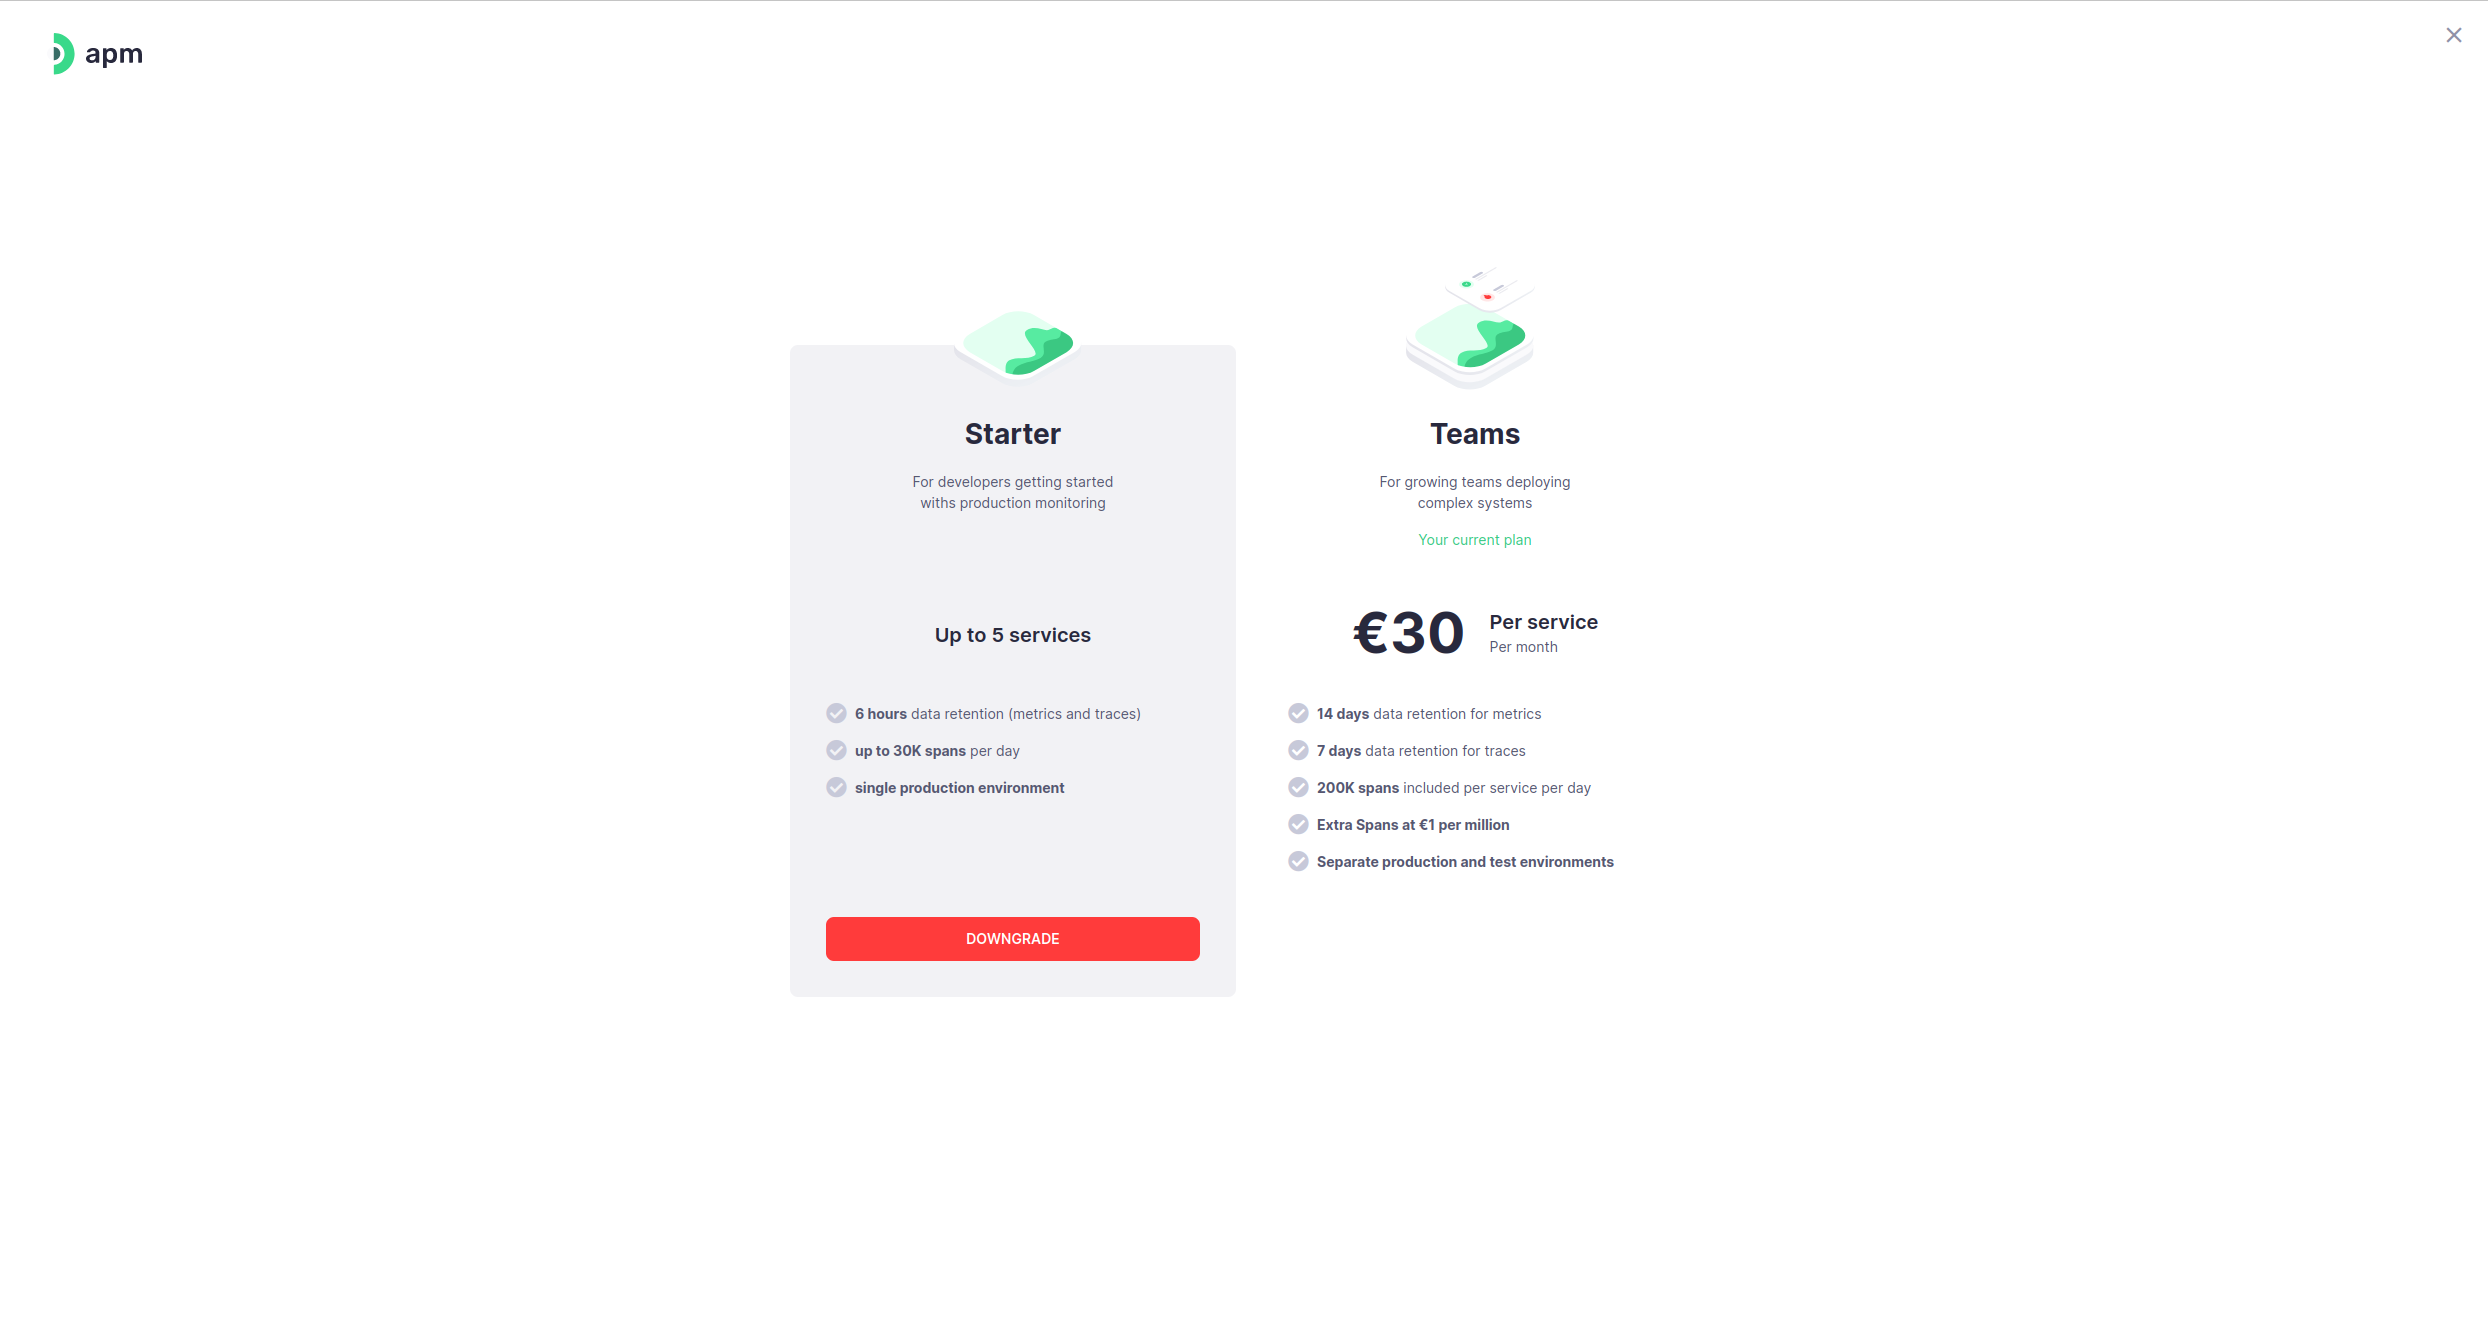
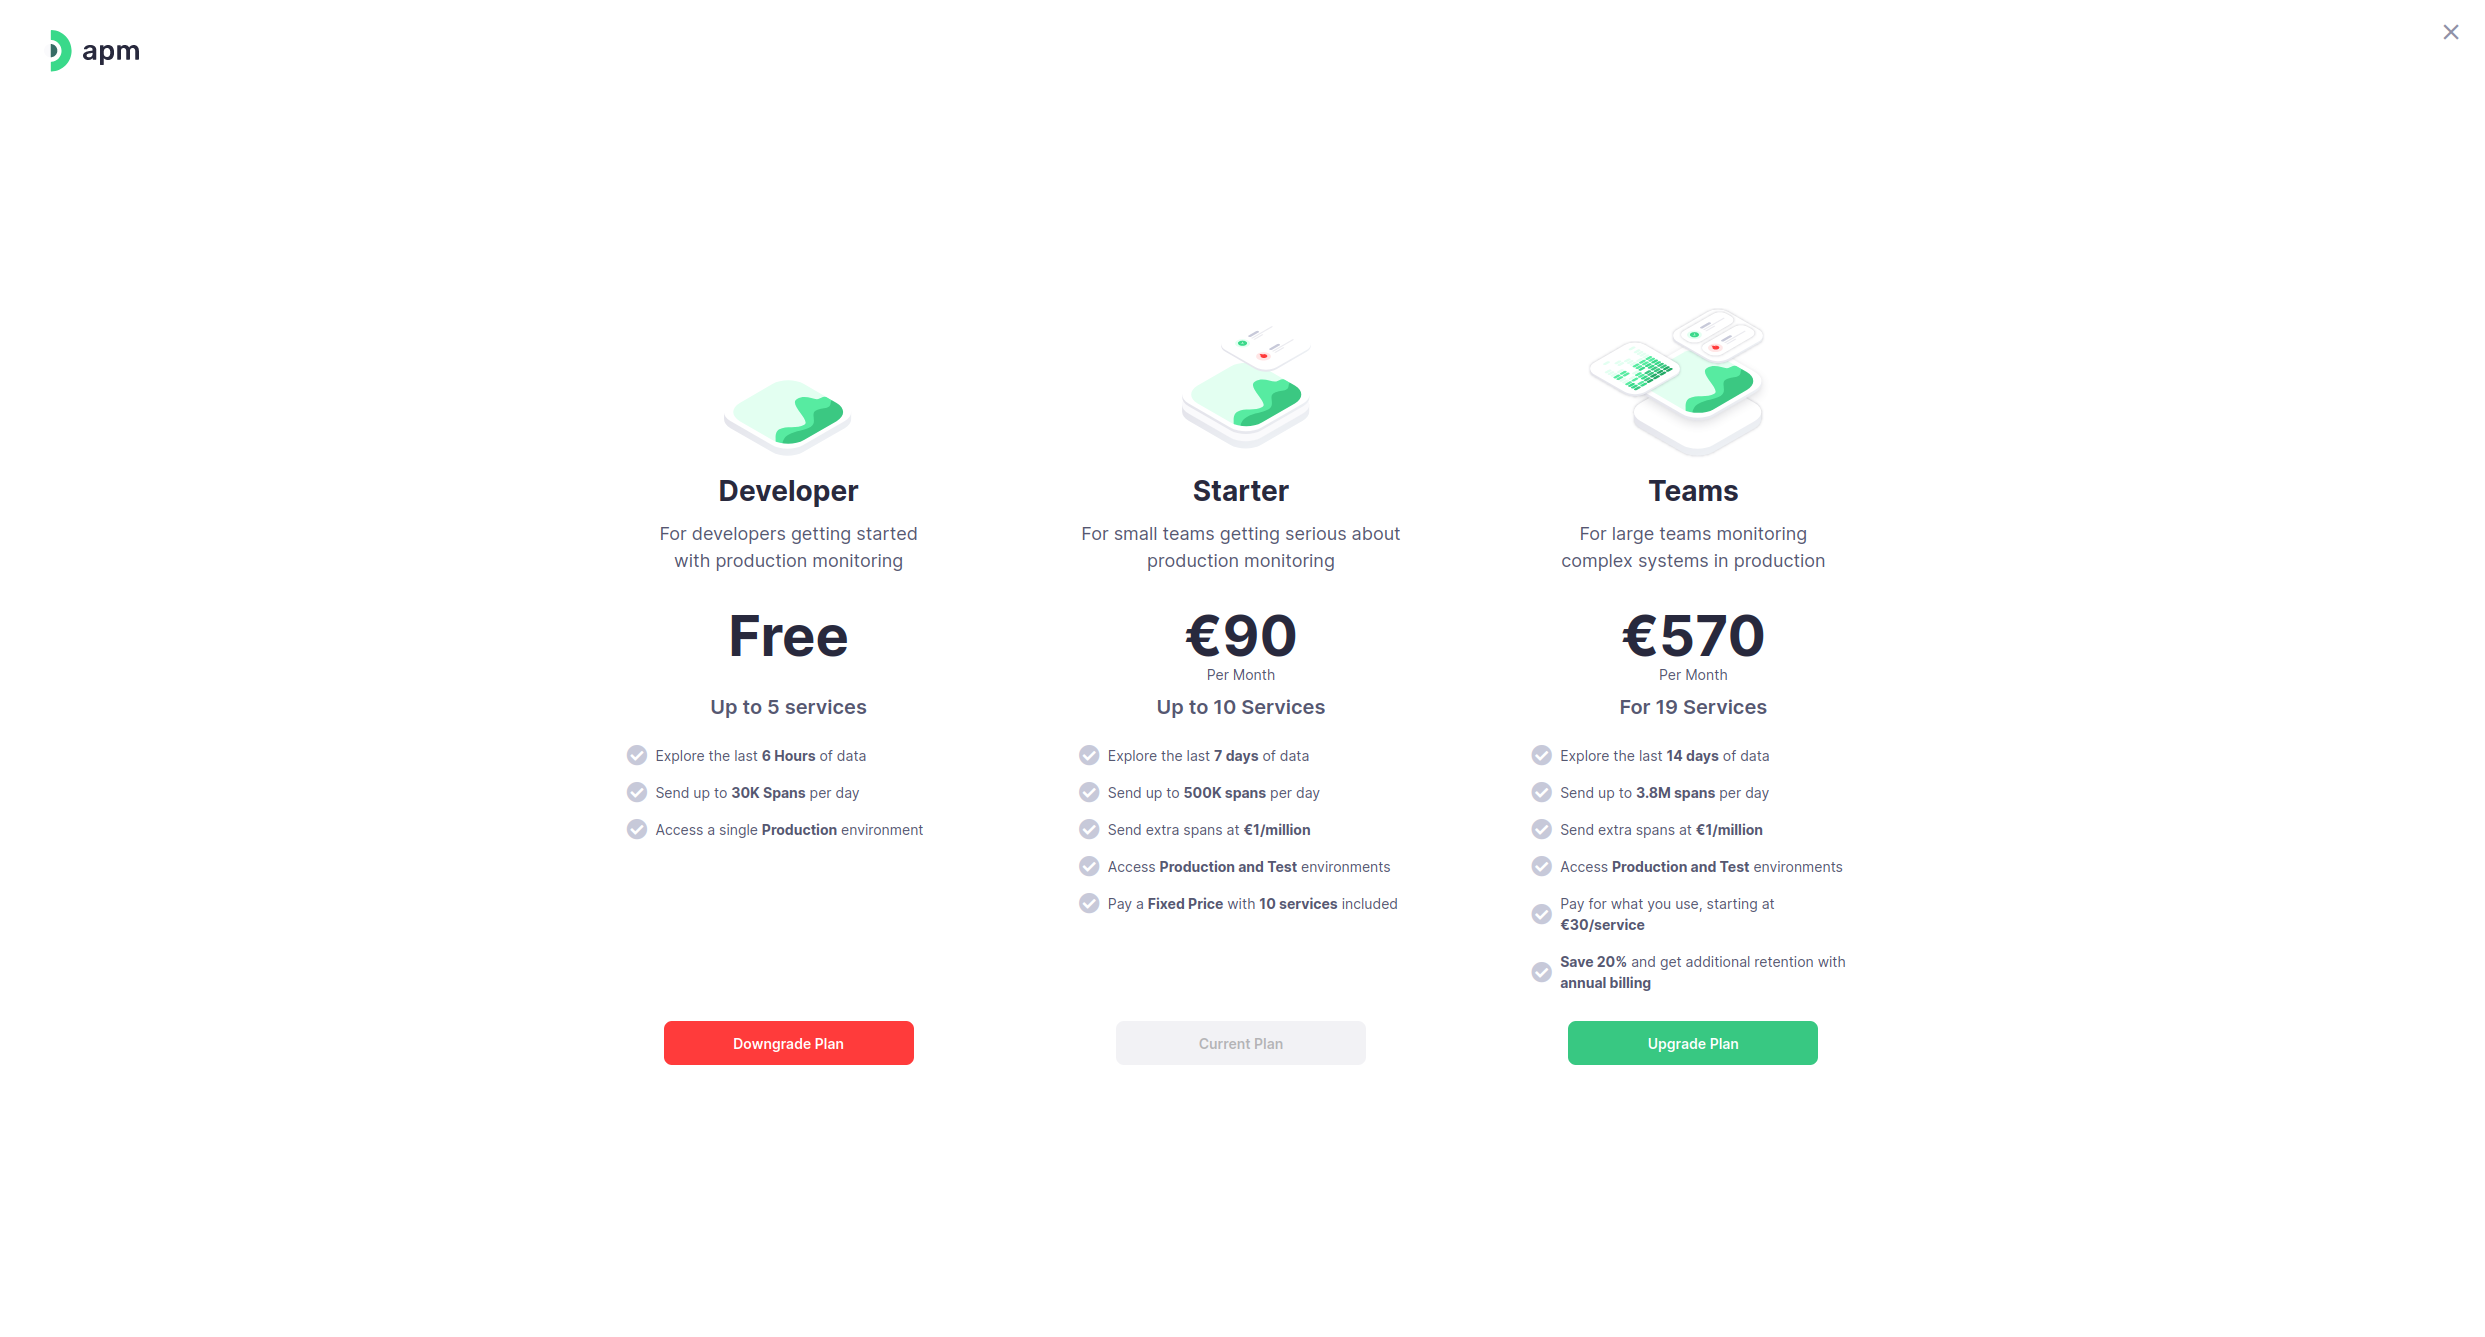
Update billing/plan change screenshots

diff --git a/docs/latest/apm/administration/billing.md b/docs/latest/apm/administration/billing.md
@@ -13,14 +13,14 @@ Billing
 Billing
 {% endlightbox %}
 
-The billing page offers you insights into your payment history and payment status, details about your [plan], as well as the ability to manage your payment and billing details. For each period you were billed, you can see the billing date, the amount you were billed, and the invoice status (pending or paid). You can also download invoices in English (ENG) or Croatian (HRV). Both documents will have the same pricing breakdown, but the document in Croatian is official, and will have additional information, as required by Croatian tax authorities. The invoices will be downloaded as PDF documents.
+The billing page offers you insights into your payment history and payment status, your current [plan], as well as the ability to manage your payment and billing details. For each period you were billed, you can see the billing date, the amount you were billed, and the invoice status (pending or paid). You can also download invoices in English (ENG) or Croatian (HRV). Both documents will have the same pricing breakdown, but the document in Croatian is official, and will have additional information, as required by Croatian tax authorities. The invoices will be downloaded as PDF documents.
 
 {% alert info %}
 Billing details are only available if you are on a paid plan, or were on the paid plan at some point in the past. Read about the [plans][plan] for more details.
 {% endalert %}
 
 {% lightbox /assets/img/apm/downgrade-dialog.png %}
-Downgrade Dialog
+Upgrade/Downgrade Dialog
 {% endlightbox %}
 
 In the sidebar, several contextual actions will be available. On the top, you will be able to see payment breakdown details for your current plan. Note that you can *always* change your plan by upgrading or downgrading. Clicking on the button will open the change plan dialog, where you can see details about each plan and start the upgrade or downgrade flow.
@@ -33,7 +33,7 @@ Billing Information
 Credit Card Information
 {% endlightbox %}
 
-The first time you upgrade from the Developer plan, you will be required to set up your billing information and credit card information. Make sure the billing information is correct, as it will appear in invoices as such! The payment information will be stored using [BrainTree](https://www.braintreepayments.com/) and will be kept secure. We do not store your payment data inside of our own databases.
+The first time you upgrade to a paid plan, you will be required to set up your billing information and credit card information. Make sure the billing information is correct, as it will appear in invoices as such! The payment information will be stored using [BrainTree](https://www.braintreepayments.com/) and will be kept secure. We do not store your payment data inside of our own databases.
 
 Subsequent upgrades or plan changes will allow you to use the already specified payment method information, or to change it. Additionally, you can always see the currently set information in the sidebar of the billing page, and change them from there. Any member of the organization will be able to change this information, even if you are not an administrator!
 
